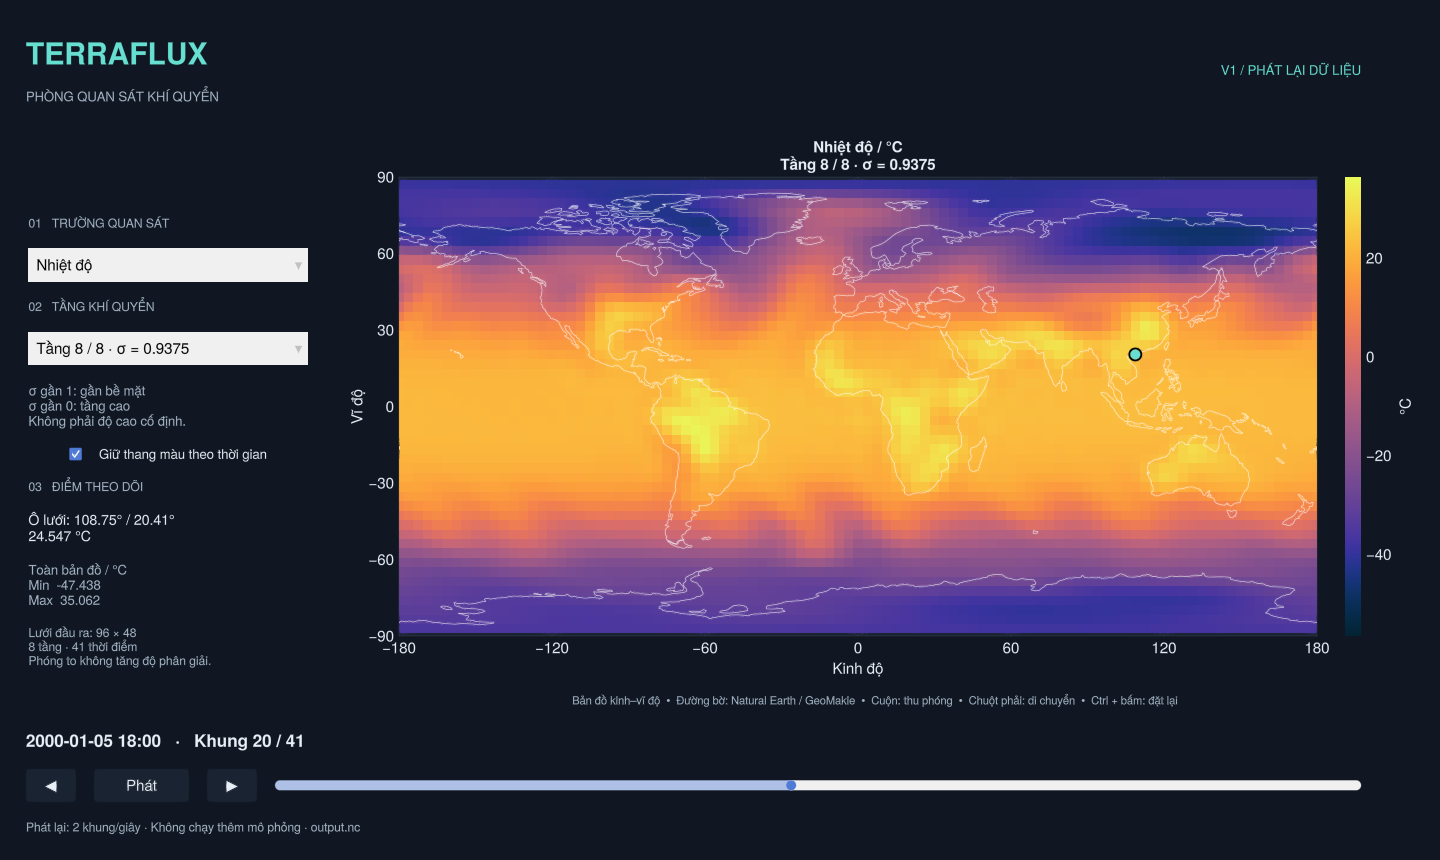
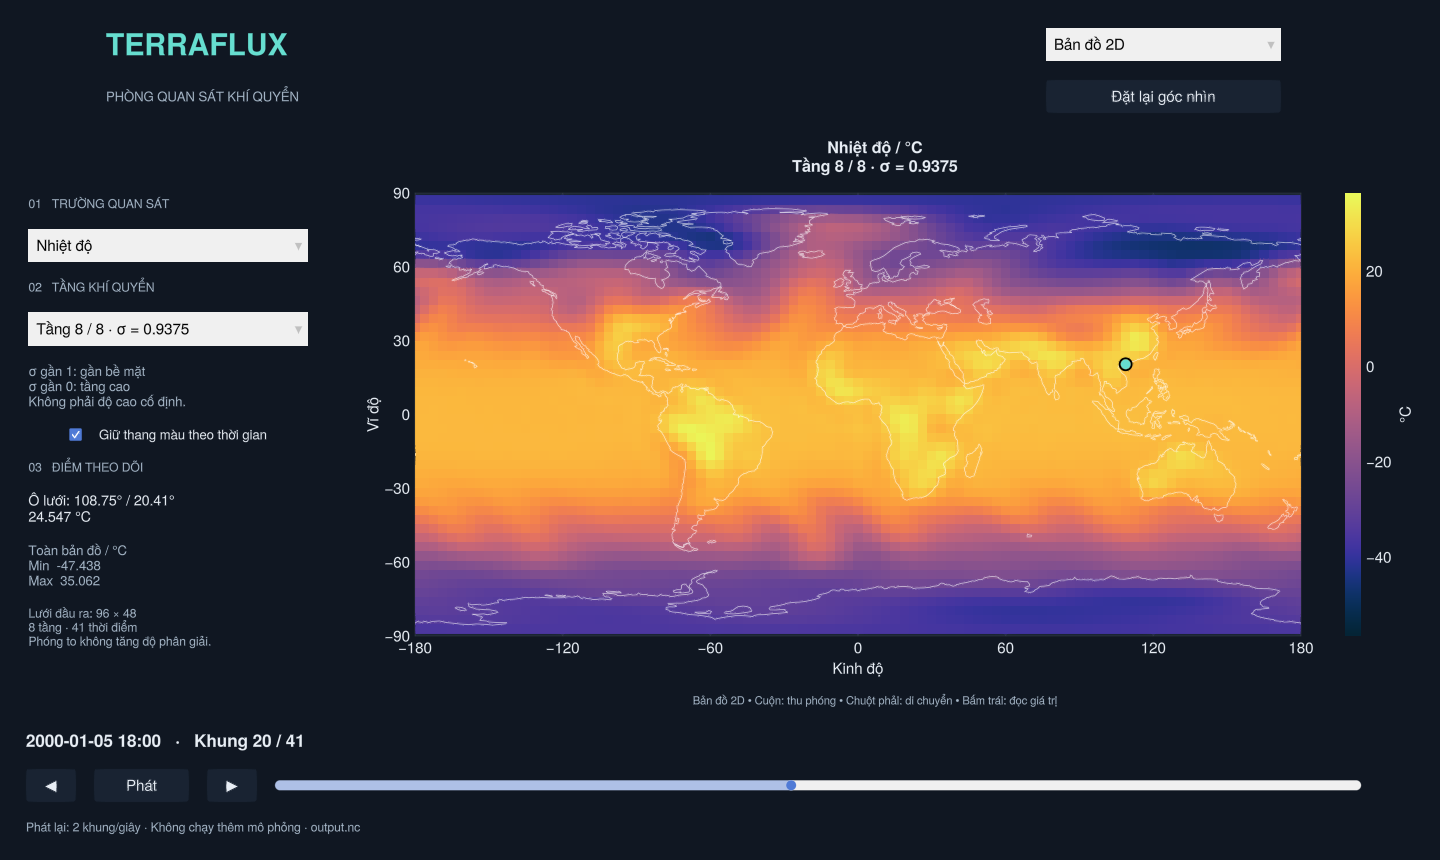
Add linked 3D globe view with rotation and point inspection

diff --git a/README.md b/README.md
@@ -29,6 +29,18 @@ julia --project=. viewer.jl --setup
 julia --project=. viewer.jl /path/to/output.nc
 ```
 
+## Địa cầu 3D
+
+Chọn **Địa cầu 3D** trong menu ở góc trên bên phải; chọn **Bản đồ 2D** để quay lại. Hai chế độ dùng chung trường, tầng, thời gian, điểm theo dõi và thang màu.
+
+- Giữ/kéo chuột trái để xoay, cuộn chuột để thu/phóng. Camera luôn ở ngoài mặt cầu.
+- Bấm rồi thả tại chỗ trên địa cầu để đọc ô lưới gần nhất ở mặt đang nhìn. Kéo để xoay hoặc bấm vào khoảng trống không đổi điểm theo dõi.
+- Nút **Đặt lại góc nhìn** đưa địa cầu về hướng Đông Nam Á; ở bản đồ 2D nút này khôi phục phạm vi toàn cầu.
+- Các ô lưới được tô cùng giá trị với bản đồ 2D, không làm mịn màu để tạo thêm chi tiết vật lý. Hai cực dùng giá trị của hàng lưới gần nhất. Mặt cầu chỉ là cách trình bày tầng đang chọn, không biểu diễn độ cao thật của tầng sigma.
+- Đường bờ lấy từ Natural Earth; các đường kinh/vĩ tuyến giúp định hướng. Không cần tải thêm dữ liệu địa cầu.
+
+![Chế độ địa cầu 3D](docs/globe.png)
+
 ## Sử dụng
 
 - **Trường quan sát:** nhiệt độ (°C), tốc độ gió hoặc từng thành phần gió (m/s), độ ẩm riêng (g/kg), áp suất quy về mực biển (hPa).
@@ -43,12 +55,13 @@ Phần bản đồ dùng kinh độ −180…180°, vĩ độ −90…90°, đư
 ## Cấu trúc
 
 - `src/data.jl`: đọc/kiểm tra NetCDF, chuẩn hóa tọa độ và đơn vị, chọn trường/tầng/thời gian.
-- `src/viewer.jl`: giao diện GLMakie, các điều khiển và phát lại.
+- `src/viewer.jl`: giao diện GLMakie, bản đồ/địa cầu, các điều khiển và phát lại.
+- `src/globe.jl`: hình học từng ô địa cầu, chuyển tọa độ và chọn mặt cầu bằng tia nhìn.
 - `viewer.jl`: điểm khởi chạy, nhận đường dẫn dữ liệu.
 - `main.jl`, `check_model.jl`: mô phỏng và kiểm tra trạng thái hiện có.
 - `note1.txt`: mục tiêu và lộ trình phát triển.
 
-Địa cầu 3D, chạy mô phỏng trực tiếp, chỉnh trạng thái và so sánh A/B là các mốc tiếp theo; chưa có trong bản này.
+Chạy mô phỏng trực tiếp, chỉnh trạng thái và so sánh A/B là các mốc tiếp theo; chưa có trong bản này.
 
 ## Kiểm tra
 
@@ -58,7 +71,7 @@ Kiểm thử tọa độ, chuyển đổi đơn vị, chọn điểm, thang màu
 julia --project=. test/runtests.jl
 ```
 
-Kiểm thử giao diện (cần màn hình và OpenGL; trên Linux có thể dùng Xvfb):
+Kiểm thử giao diện 2D/3D: đổi trường/tầng/thời gian, chọn điểm, xoay, thu/phóng, đặt lại camera (cần màn hình và OpenGL; trên Linux có thể dùng Xvfb):
 
 ```sh
 julia --project=. test/viewer_smoke.jl
